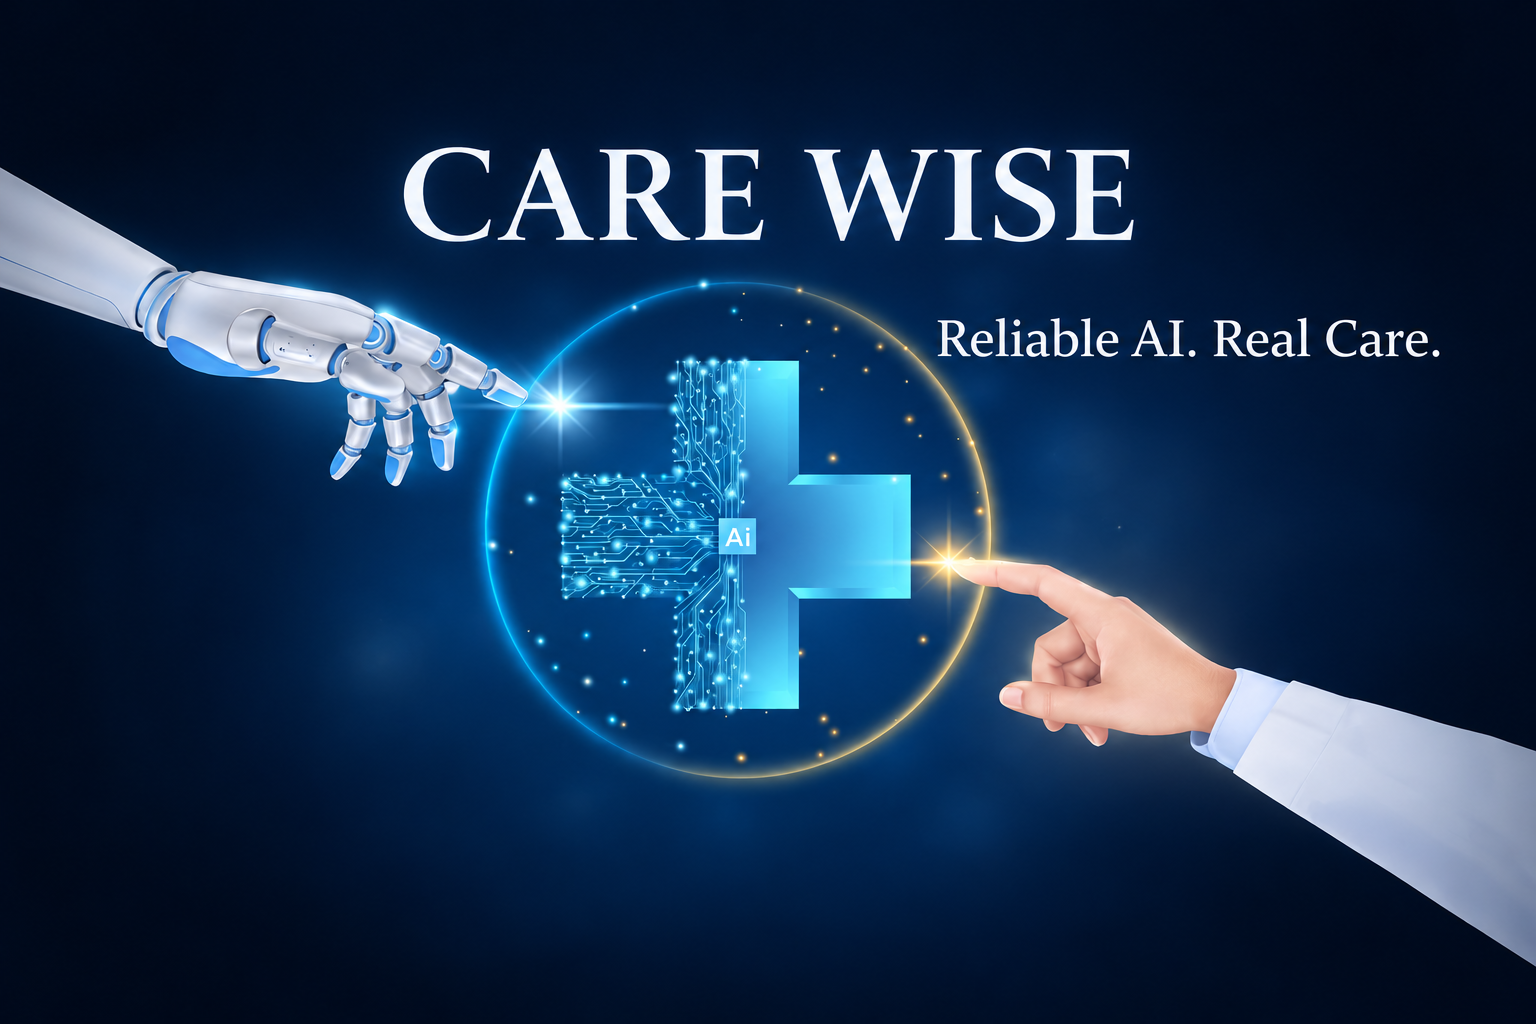
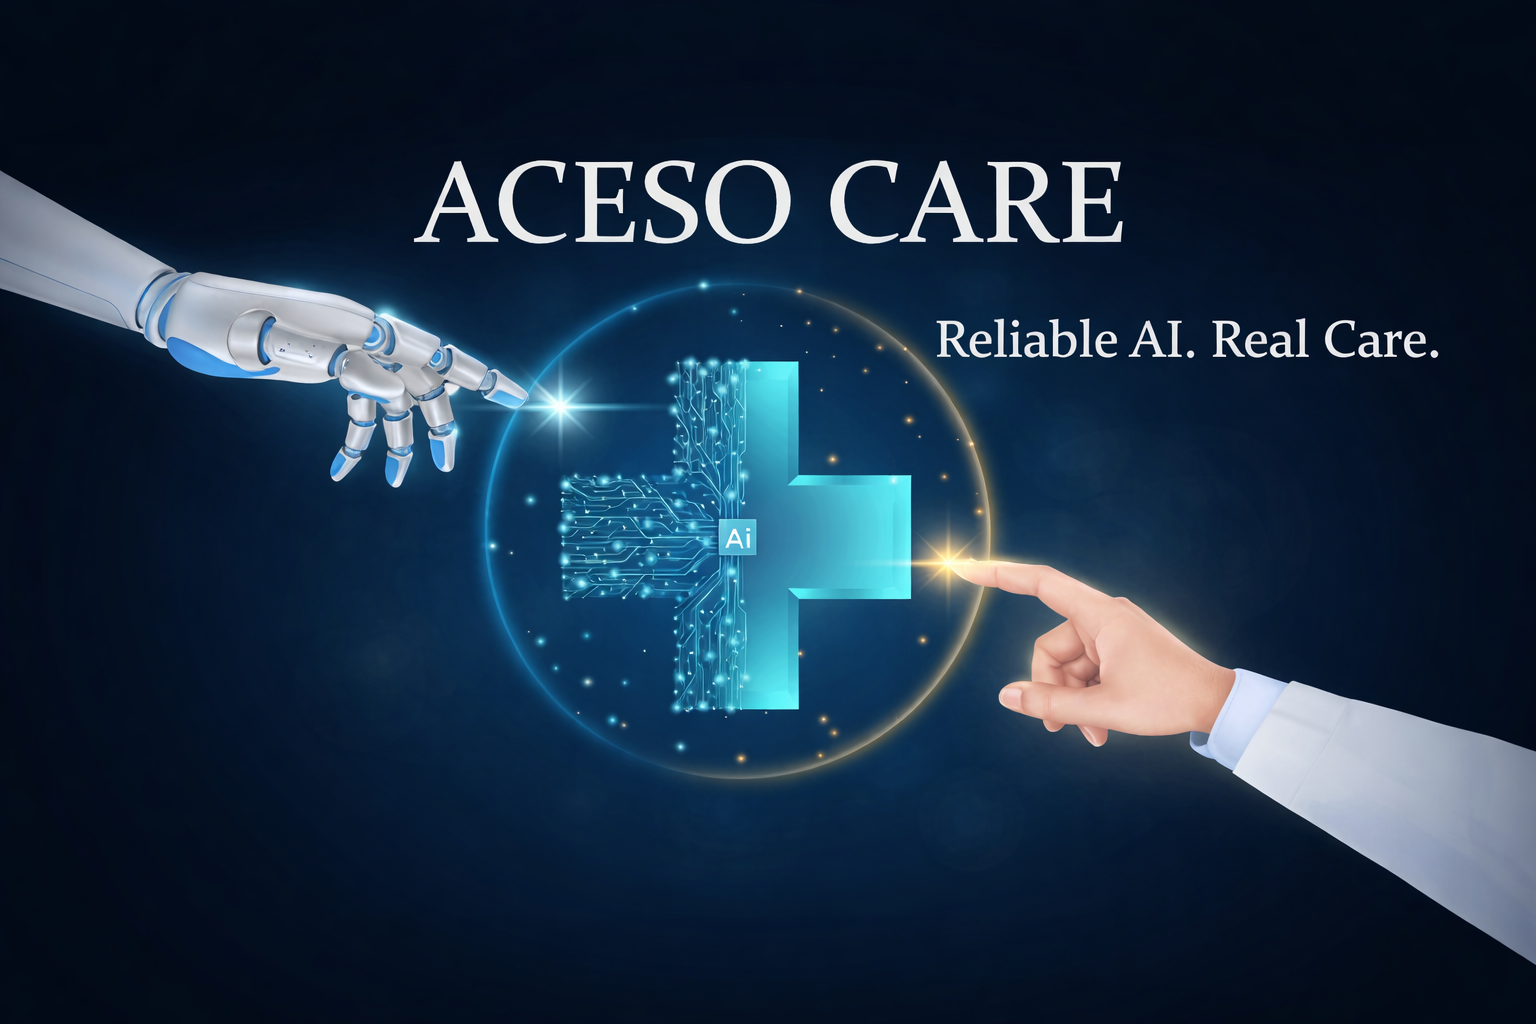
RENAME

diff --git a/com/carewise/src/main.py b/com/carewise/src/main.py
@@ -15,7 +15,7 @@ import streamlit as st
 # --------------------------------------------------
 
 st.set_page_config(
-    page_title="Care Wise",
+    page_title="Aceso Care",
     page_icon="🏥",
     layout="wide",
 )
@@ -136,6 +136,6 @@ FindHospital.render()
 
 st.markdown("""
 <div style='text-align: center; padding: 0rem; color: green; font-size: 1.2rem;'>
-Care Wise is not designed to replace doctors. It is to ensure patients reach out to doctors at the right time and well informed.
+Aceso Care is not designed to replace doctors. It is to ensure patients reach out to doctors at the right time and well informed.
 </div>
 """, unsafe_allow_html=True)

diff --git a/com/carewise/src/Bloodtest.py b/com/carewise/src/Bloodtest.py
@@ -374,7 +374,7 @@ def render():
         uploaded = st.file_uploader(
             "Upload Medical Report",
             type=["jpg", "jpeg", "png"],
-            key="carewise_lab_report_uploader"
+            key="aceso_care_lab_report_uploader"
         )
 
         if uploaded:
@@ -573,7 +573,7 @@ def render():
             st.download_button(
                 "Download extracted results",
                 data=output.getvalue(),
-                file_name="CareWise_Lab_Report_Results.csv",
+                file_name="Aceso_Care_Lab_Report_Results.csv",
                 mime="text/csv"
             )
 

diff --git a/com/carewise/src/README.md b/com/carewise/src/README.md
@@ -1,2 +1,2 @@
-# Care Wise
+# Aceso Care 
 Health Care App
